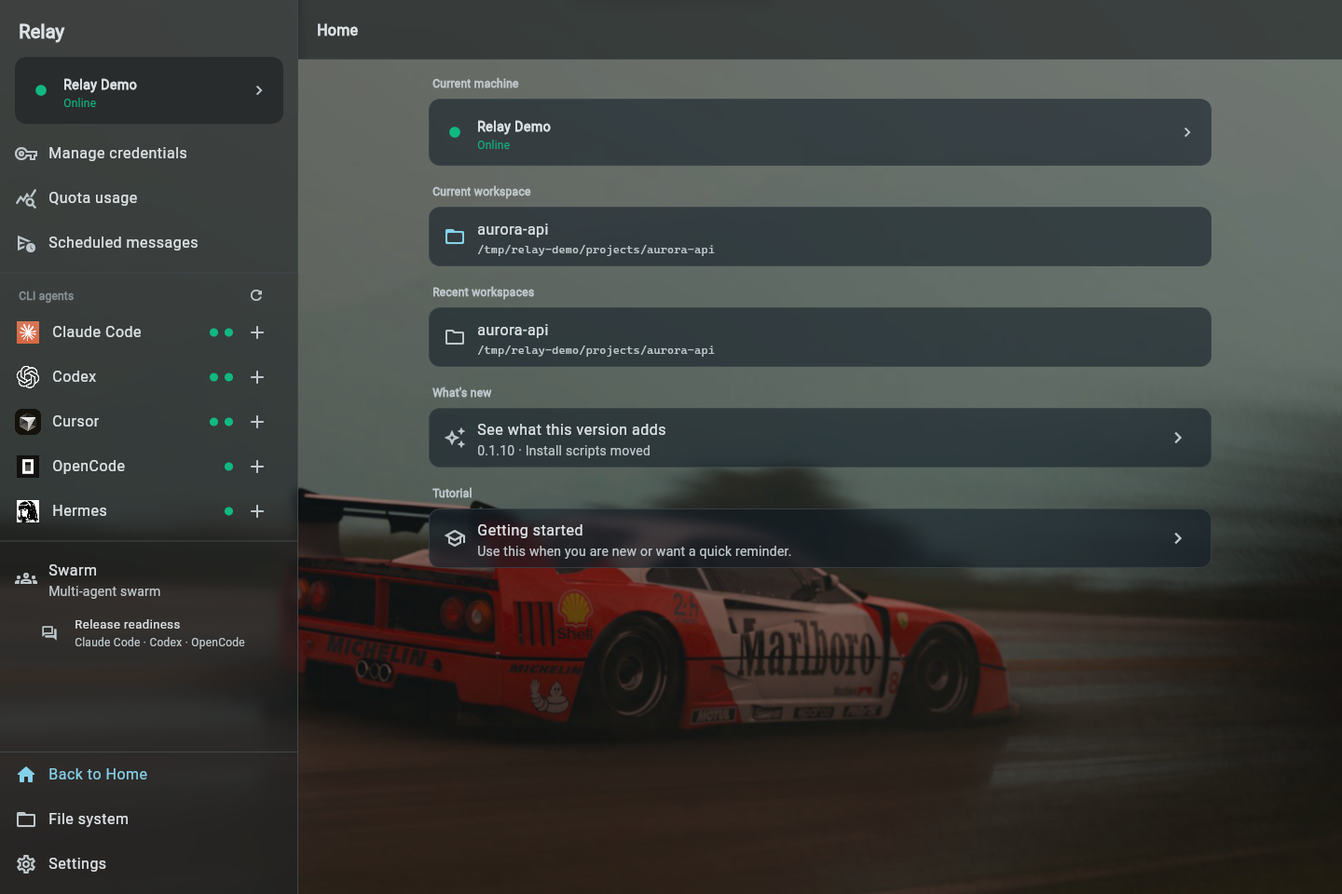
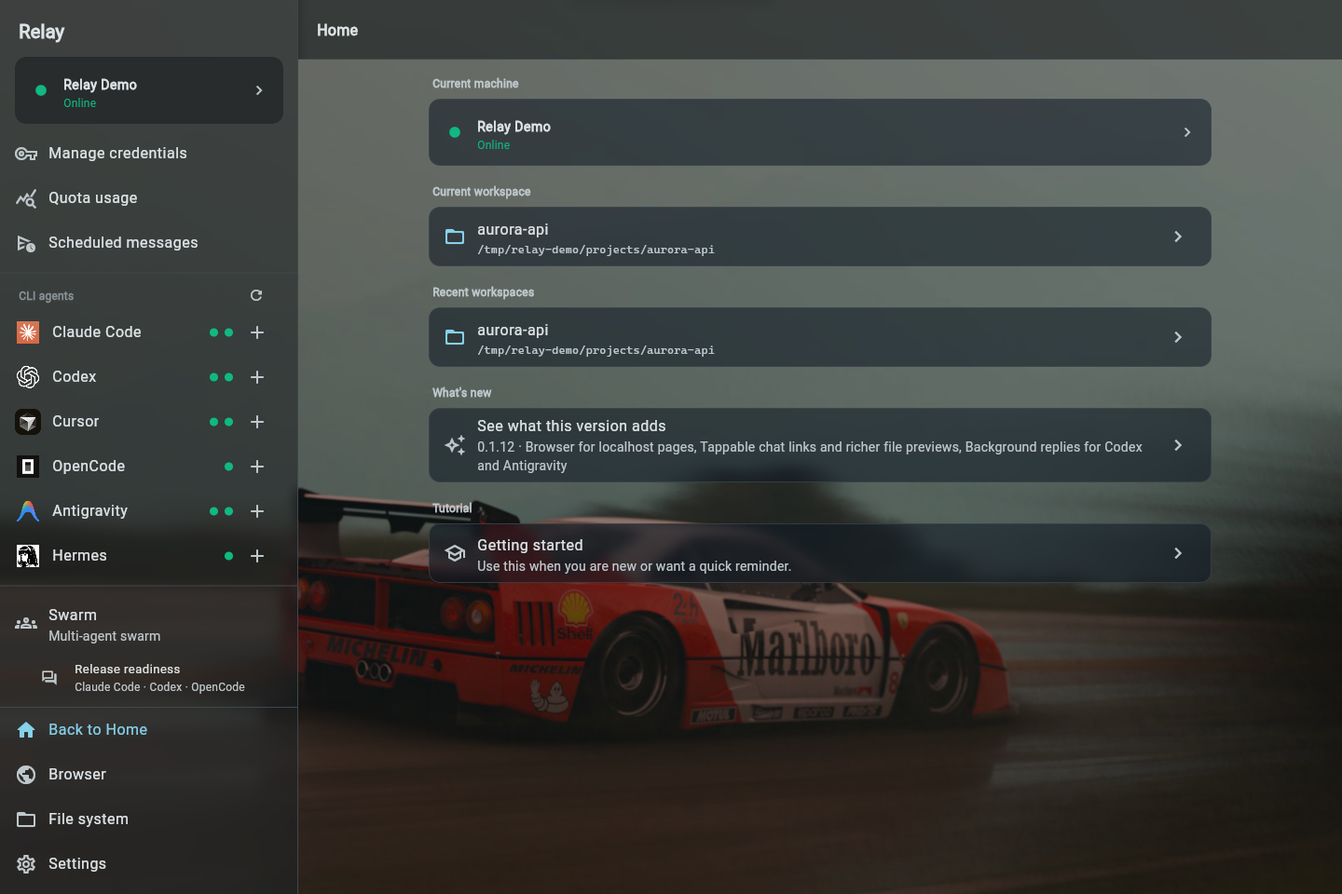
docs: 0.1.12 screenshots, release milestone, 0.1.13 drive switcher plan (#57)
* fix: old-backend errors, iOS downloads, leaving busy chats, resume catch-up

- Show "backend is too old" instead of Express's HTML 404 page when the
  backend lacks a route such as POST /api/fs/mkdir (#45).
- iOS: save downloads to Documents (the sandbox Downloads folder cannot be
  created) and expose them in the Files app (#46).
- Drawer → Home no longer blocks while an agent is working; the turn keeps
  running on the backend, as when switching agents or workspaces.
- On app resume, reconnect events and pull history once so turns finished on
  other clients while the app was suspended appear without a manual refresh.

* feat: add localhost browser and background replies for 0.1.12

Add streamed browser sessions, Codex and Antigravity automatic replies, chat links, and Markdown/image previews. Harden shutdown, token revocation, and background-turn handling with regression coverage.

* Build(deps): bump the npm-dependencies group across 1 directory with 9 updates

Bumps the npm-dependencies group with 9 updates in the /server directory:

| Package | From | To |
| --- | --- | --- |
| [@anthropic-ai/claude-agent-sdk](https://github.com/anthropics/claude-agent-sdk-typescript) | `0.3.314` | `0.3.323` |
| [dotenv](https://github.com/motdotla/dotenv) | `16.6.1` | `18.0.10` |
| [express](https://github.com/expressjs/express) | `4.22.3` | `5.3.0` |
| [express-rate-limit](https://github.com/express-rate-limit/express-rate-limit) | `8.7.2` | `8.7.4` |
[…]

diff --git a/scripts/dev/readme_screenshots.js b/scripts/dev/readme_screenshots.js
@@ -9,6 +9,8 @@
 const fs = require('node:fs');
 const os = require('node:os');
 const path = require('node:path');
+const http = require('node:http');
+const assert = require('node:assert/strict');
 const { execFileSync, spawn } = require('node:child_process');
 
 const REPO = path.resolve(__dirname, '../..');
@@ -21,6 +23,7 @@ const SERVER = path.join(ROOT, 'server');
 const WORKDIR = path.join(ROOT, 'projects', 'aurora-api');
 const PORT = Number(process.env.DEMO_PORT || 8790);
 const BASE_URL = `http://127.0.0.1:${PORT}`;
+const PREVIEW_PORT = PORT + 1;
 const TOKEN = 'relay-demo-screenshot-token-0000000000000000';
 const DARK_OPACITY = Number(process.env.WALLPAPER_DARK_OPACITY || 0.6);
 const PLAYWRIGHT_VERSION = '1.63.0';
@@ -29,10 +32,11 @@ const SEP = '\u0000';
 const day = new Date().toISOString().slice(0, 10);
 const at = (hm) => `${day}T${hm}:00.000Z`;
 
-// Viewport, device pixel ratio and the taps that reach each screen. Taps are
-// CSS-pixel coordinates in the layout of this release; check them when the
-// drawer or home page changes.
+// Viewport, device pixel ratio and the actions that reach each screen.
 const DRAWER = [28, 27];
+const OPEN_FILES = [{ tap: DRAWER }, { button: ['File system', '文件系统'] }];
+const OPEN_BROWSER = [{ tap: DRAWER }, { button: ['Browser', '浏览器'] }];
+const OPEN_IMAGE = [...OPEN_FILES, { button: ['ferrari.png', 'ferrari.png'] }];
 const SHOTS = [
   { name: 'relay-overview-web', size: [1440, 960, 1], steps: [] },
   { name: 'relay-chat-web', size: [1440, 960, 1], steps: [{ tap: [104, 356] }] },
@@ -40,9 +44,11 @@ const SHOTS = [
   {
     name: 'relay-swarm-mobile',
     size: [400, 820, 2],
-    steps: [{ tap: DRAWER }, { scroll: [150, 500, 300] }, { tap: [136, 640] }],
+    steps: [{ tap: DRAWER }, { scroll: [150, 500, 300] }, { button: ['Release readiness', '发布检查'] }],
   },
-  { name: 'relay-files-mobile', size: [400, 820, 2], steps: [{ tap: DRAWER }, { tap: [95, 739] }] },
+  { name: 'relay-files-mobile', size: [400, 820, 2], steps: OPEN_FILES },
+  { name: 'relay-browser-mobile', size: [400, 820, 2], steps: OPEN_BROWSER, browser: true },
+  { name: 'relay-image-preview-mobile', size: [400, 820, 2], steps: OPEN_IMAGE, image: true },
 ];
 
 // Same layout as the first phone set, rendered at 2.5× for 1080×1920 PNGs.
@@ -52,12 +58,14 @@ const MOBILE_SHOTS = [
   { name: 'relay-chat-empty-mobile', empty: true, steps: [{ tap: DRAWER }, { tap: [104, 356] }] },
   {
     name: 'relay-swarm-mobile',
-    steps: [{ tap: DRAWER }, { scroll: [150, 500, 300] }, { tap: [136, 550] }],
+    steps: [{ tap: DRAWER }, { scroll: [150, 500, 300] }, { button: ['Release readiness', '发布检查'] }],
   },
-  { name: 'relay-files-mobile', steps: [{ tap: DRAWER }, { tap: [95, 688] }] },
+  { name: 'relay-files-mobile', steps: OPEN_FILES },
+  { name: 'relay-browser-mobile', steps: OPEN_BROWSER, browser: true },
+  { name: 'relay-image-preview-mobile', steps: OPEN_IMAGE, image: true },
   { name: 'relay-machine-mobile', steps: [{ tap: [180, 132] }] },
-  { name: 'relay-quota-mobile', steps: [{ tap: DRAWER }, { tap: [100, 213] }] },
-  { name: 'relay-settings-mobile', steps: [{ tap: DRAWER }, { tap: [95, 739] }] },
+  { name: 'relay-quota-mobile', steps: [{ tap: DRAWER }, { tap: [100, 213] }], quota: true },
+  { name: 'relay-settings-mobile', steps: [{ tap: DRAWER }, { button: ['Settings', '设置'] }] },
   { name: 'relay-credentials-mobile', steps: [{ tap: DRAWER }, { tap: [100, 165] }] },
 ].map((shot) => ({ ...shot, size: [432, 768, 2.5] }));
 
@@ -79,7 +87,7 @@ function writeJson(name, value) {
   fs.writeFileSync(path.join(SERVER, name), JSON.stringify(value, null, 2));
 }
 
-function seed(lang) {
+function seed(lang, image) {
   const text = (en, zh) => lang === 'zh' ? zh : en;
   fs.rmSync(ROOT, { recursive: true, force: true });
 
@@ -100,6 +108,7 @@ function seed(lang) {
     fs.mkdirSync(path.dirname(file), { recursive: true });
     fs.writeFileSync(file, body);
   }
+  fs.copyFileSync(image, path.join(WORKDIR, 'ferrari.png'));
 
   // Tracked server code only, so no local deployment state is copied.
   const tracked = execFileSync('git', ['ls-files', 'server'], { cwd: REPO }).toString().trim().split('\n');
@@ -231,7 +240,54 @@ function seed(lang) {
   });
 }
 
-async function startServer() {
+function startPreview(lang) {
+  const text = (en, zh) => lang === 'zh' ? zh : en;
+  const html = `<!doctype html>
+<html lang="${lang}"><meta charset="utf-8"><meta name="viewport" content="width=device-width, initial-scale=1">
+<title>Aurora · ${text('Billing', '账单')}</title>
+<style>
+*{box-sizing:border-box}body{margin:0;background:#f5f6f8;color:#172b3a;font:15px system-ui,sans-serif}
+header{padding:22px 24px;background:#172b3a;color:white;display:flex;align-items:center;justify-content:space-between}
+header strong{font-size:22px;letter-spacing:-.7px}header span{color:#b8c9d6;font-size:12px}
+main{max-width:960px;margin:auto;padding:26px 22px}small{color:#607482;font-size:11px;letter-spacing:1.4px}
+h1{font-size:29px;letter-spacing:-1px;margin:8px 0}p{color:#607482;line-height:1.6;margin:0 0 22px}
+.stats{display:grid;grid-template-columns:1fr 1fr;gap:12px}.card,section{background:white;border:1px solid #e0e6eb;border-radius:12px;padding:18px}
+.card span{font-size:12px;color:#607482}.card strong{display:block;font-size:27px;margin:9px 0 4px}.card em{font-size:11px;font-style:normal;color:#13765e}
+section{margin-top:18px}h2{font-size:16px;margin:0 0 20px}.chart{height:85px;display:flex;align-items:end;gap:12px}
+.chart i{flex:1;background:#467d96;border-radius:4px 4px 0 0}.chart i:last-child{background:#172b3a}
+.axis{display:flex;justify-content:space-between;font-size:10px;color:#607482;margin-top:8px}
+.invoice{display:flex;justify-content:space-between;align-items:center;padding:15px 0;border-top:1px solid #edf0f3}
+.invoice b{font-size:13px}.invoice span{display:block;font-size:11px;color:#607482;margin-top:4px}
+.paid{background:#e5f4ec;color:#13765e;padding:5px 9px;border-radius:5px;font-size:11px}
+footer{margin-top:20px;color:#607482;font-size:11px}
+</style>
+<header><strong>aurora<span style="color:#76b4cf"> / </span></strong><span>${text('Development preview', '开发预览')}</span></header>
+<main><small>AURORA API · 2.4.1</small><h1>${text('Billing overview', '账单概览')}</h1>
+<p>${text('A clear view of your invoices and revenue.', '发票与收入，一目了然。')}</p>
+<div class="stats"><div class="card"><span>${text('Revenue this month', '本月收入')}</span><strong>¥48,250</strong><em>↑ 18.6% ${text('vs last month', '较上月')}</em></div>
+<div class="card"><span>${text('Paid invoices', '已付发票')}</span><strong>128</strong><em>${text('All payments settled', '全部款项已结清')}</em></div></div>
+<section><h2>${text('Revenue · Last 7 days', '收入 · 最近 7 天')}</h2><div class="chart">
+${[36, 58, 44, 72, 62, 84, 98].map((height) => `<i style="height:${height}%"></i>`).join('')}</div>
+<div class="axis"><span>${text('MON', '周一')}</span><span>${text('SUN', '周日')}</span></div></section>
+<section><h2>${text('Recent invoices', '最近发票')}</h2>
+${[['1048', 'Northstar Studio', '¥2,400'], ['1047', 'Orbit Labs', '¥1,850'], ['1046', 'Acme Design', '¥3,200']].map(([id, name, amount]) =>
+    `<div class="invoice"><div><b>${name}</b><span>INV-${id} · ${amount}</span></div><label class="paid">${text('Paid', '已付款')}</label></div>`).join('')}
+</section><footer>localhost:${PREVIEW_PORT} · ${text('Served on your backend machine', '运行在你的后端机器上')}</footer></main></html>`;
+  const server = http.createServer((_req, res) => {
+    res.writeHead(200, { 'Content-Type': 'text/html; charset=utf-8' });
+    res.end(html);
+  });
+  return new Promise((resolve, reject) => {
+    server.once('error', reject);
+    server.listen(PREVIEW_PORT, '127.0.0.1', () => resolve(server));
+  });
+}
+
+async function startServer(browserPath) {
+  // Match Playwright's sandbox setting only for this isolated localhost demo.
+  const launcher = path.join(ROOT, 'chromium-demo');
+  const quotedBrowser = `'${browserPath.replace(/'/g, "'\\''")}'`;
+  fs.writeFileSync(launcher, `#!/bin/sh\nexec ${quotedBrowser} --no-sandbox "$@"\n`, { mode: 0o700 });
   // The shell may carry the real deployment's settings; the demo must not use them.
   const env = Object.fromEntries(Object.entries(process.env).filter(([key]) =>
     !/^(PORT|HOST|PUBLIC_BASE_URL|RELAY_.*|ENABLE_.*)$/.test(key)));
@@ -244,6 +300,7 @@ async function startServer() {
       HOST: '127.0.0.1',
       RELAY_DEFAULT_DIR: WORKDIR,
       RELAY_FS_ROOTS: path.join(ROOT, 'projects'),
+      RELAY_BROWSER: launcher,
       ENABLE_QUOTA_WATCH: 'false',
       ENABLE_CLAUDE_KEEPALIVE: 'false',
     },
@@ -268,6 +325,25 @@ async function shoot(browser, wallpaper, lang, shot) {
     deviceScaleFactor: dpr,
     timezoneId: 'UTC',
     locale: lang === 'zh' ? 'zh-CN' : 'en-US',
+  });
+  let previewDownloaded = false;
+  let browserFrames = 0;
+  let browserUrl = '';
+  page.on('response', (response) => {
+    if (response.url().includes('/api/fs/download?') && response.url().includes('ferrari.png') && response.ok()) {
+      previewDownloaded = true;
+    }
+  });
+  page.on('websocket', (socket) => {
+    if (!socket.url().includes('/api/browser/connect?')) return;
+    socket.on('framereceived', ({ payload }) => {
+      if (Buffer.isBuffer(payload)) {
+        browserFrames += 1;
+      } else {
+        const message = JSON.parse(payload);
+        if (message.type === 'url') browserUrl = message.url;
+      }
+    });
   });
   if (shot.empty) {
     // Empty only this browser's history; the demo's translated chat stays intact.
@@ -329,14 +405,38 @@ async function shoot(browser, wallpaper, lang, shot) {
   }, { lang, wallpaper, darkOpacity: DARK_OPACITY, baseUrl: BASE_URL, token: TOKEN });
   await page.reload();
   await page.waitForTimeout(6000);
+  // Flutter paints to canvas; enable its semantics tree to target drawer labels.
+  await page.locator('flt-semantics-placeholder').evaluate((element) => element.click());
+  await page.waitForTimeout(500);
   for (const step of shot.steps) {
     if (step.tap) {
       await page.mouse.click(...step.tap);
+    } else if (step.button) {
+      const label = step.button[lang === 'zh' ? 1 : 0];
+      const escaped = label.replace(/[.*+?^${}()|[\]\\]/g, '\\$&');
+      await page.getByRole('button', { name: new RegExp(escaped) }).click();
     } else {
       await page.mouse.move(step.scroll[0], step.scroll[1]);
       await page.mouse.wheel(0, step.scroll[2]);
     }
-    await page.waitForTimeout(step.tap ? 3000 : 1000);
+    await page.waitForTimeout(step.scroll ? 1000 : 3000);
+  }
+  if (shot.browser) {
+    await page.getByRole('textbox').fill(`http://127.0.0.1:${PREVIEW_PORT}`);
+    const framesBeforeNavigation = browserFrames;
+    await page.getByRole('textbox').press('Enter');
+    await page.waitForTimeout(4000);
+    assert(browserUrl.startsWith(`http://127.0.0.1:${PREVIEW_PORT}`), 'Browser must navigate to the localhost demo');
+    assert(browserFrames > framesBeforeNavigation, 'Browser screenshot must contain a streamed frame');
+  }
+  if (shot.image) {
+    assert(previewDownloaded, 'Image preview must download the demo Ferrari image');
+    await page.getByRole('img').waitFor({ state: 'visible' });
+    assert(!(await page.locator('body').innerText()).match(/Cannot preview|无法预览/), 'Image preview must render successfully');
+  }
+  if (shot.quota) {
+    await page.locator('[role="progressbar"]:not([aria-valuenow])').waitFor({ state: 'hidden', timeout: 60000 });
+    assert(!(await page.locator('body').innerText()).match(/Loading quota|正在查询额度/), 'Quota queries must finish before capture');
   }
   const file = path.join(OUT, `${shot.name}${lang === 'zh' ? '-zh' : ''}.png`);
   await page.screenshot({ path: file });
@@ -360,14 +460,19 @@ async function main() {
   try {
     const wallpaper = fs.readFileSync(image).toString('base64');
     for (const lang of MOBILE_ZH ? ['zh'] : ['en', 'zh']) {
-      seed(lang);
-      const server = await startServer();
+      seed(lang, image);
+      const preview = await startPreview(lang);
+      let server;
       try {
+        server = await startServer(chromium.executablePath());
         const shots = MOBILE_ZH ? MOBILE_SHOTS : SHOTS;
         for (const shot of shots) await shoot(browser, wallpaper, lang, shot);
       } finally {
-        server.kill();
-        await new Promise((resolve) => server.once('exit', resolve));
+        if (server) {
+          server.kill();
+          await new Promise((resolve) => server.once('exit', resolve));
+        }
+        await new Promise((resolve) => preview.close(resolve));
       }
     }
   } finally {

diff --git a/ENGINEERING.md b/ENGINEERING.md
@@ -42,7 +42,7 @@ script is under `scripts/` except the Node tools in `server/scripts/`.
 | scripts/install/{linux,macos,windows} | what users run to install and manage a backend; the linux and macos scripts forward to unix |
 | scripts/install/unix | the one Linux/macOS implementation: install.sh, the setup menu, service scripts and the per-platform adapters in lib/ |
 | scripts/release | release bundle builders, version/documentation checks, Windows setup checks and a local Android signing fallback for a release draft |
-| scripts/dev | local development helpers (build flow, backend restart, icon export, README screenshots) |
+| scripts/dev | local development helpers (build flow, backend restart, icon export, isolated demo screenshots for the English/Chinese READMEs and Chinese 9:16 phones, including localhost browser and workspace image preview) |
 | docs | handbook, install guides, security model, changelog, README screenshots |
 | .github/workflows | CI on pull requests, an on-demand unsigned iOS IPA, and a manually prepared release draft that also builds the signed Android APK from Actions Secrets |
 
@@ -443,7 +443,8 @@ navigation on 2026-11-09.
 - `node scripts/release/check_versions.js`, `node scripts/release/check_docs.js` and `node --test scripts/release/*.test.js` -> exit 0
 - `(cd app/core && flutter analyze --no-pub)` and `(cd app/shell && flutter analyze --no-pub)` -> "No issues found!"
 - `(cd app/core && flutter test --no-pub)` -> "All tests passed!"
-- `node scripts/dev/readme_screenshots.js <wallpaper image> --mobile-zh` (Web build present) -> nine Chinese demo screenshots (home, chat, empty chat, Swarm, files, machine details, quota usage, settings and credentials) in `docs/screenshots/mobile-zh-9x16/`, each 1080×1920 (9:16), with translated demo conversations and the README wallpaper settings.
+- `node scripts/dev/readme_screenshots.js docs/farrari.png` (Web build present) -> fourteen English/Chinese README screenshots (home and chat at 1440×960; mobile chat, Swarm, files, localhost browser and image preview at 800×1640) in `docs/screenshots/`, using an isolated demo backend and localhost dashboard with the Ferrari wallpaper.
+- `node scripts/dev/readme_screenshots.js docs/farrari.png --mobile-zh` (Web build present) -> eleven Chinese demo screenshots (home, chat, empty chat, Swarm, files, browser, image preview, machine details, quota usage, settings and credentials) in `docs/screenshots/mobile-zh-9x16/`, each 1080×1920 (9:16), with translated demo conversations and the README wallpaper settings; quota capture waits for all usage queries to finish.
 - Settings → Wallpaper: Replace image and Remove wallpaper controls appear above the preview and adjustment controls.
 - Settings → Wallpaper: choosing or removing an image updates the preview before Save; import/processing displays a spinner.
 - Settings → Wallpaper: one opacity slider controls the current theme, and moving it updates the preview before Save.
@@ -532,7 +533,8 @@ navigation on 2026-11-09.
 | Milestone | Completion criteria | Status |
 |---|---|---|
 | 0.1.11 | `node scripts/release/check_versions.js` prints "Release versions match: 0.1.11"; the What's new entries (English and Chinese) hold 1-3 highlights plus short other-change lines; Antigravity appears in agent controls and quota views with host credentials protected | done (released 2026-11-10) |
-| 0.1.12 | `node scripts/release/check_versions.js` prints "Release versions match: 0.1.12"; the dependency updates deferred from 0.1.11 land on the 0.1.12 branch with CI green: Firebase and flutter_secure_storage majors (was #39; flutter_secure_storage stops at 10 so Android data migrates before 11 removes the old ciphers), Express 5 and dotenv majors (was #40; Express 5 rejects the `app.get('*')` Web fallback route), and the moderate advisories `npm audit fix` resolves (the remaining `glob`/`minimatch` one comes through firebase-admin → google-gax → rimraf 5 and waits for upstream) | in progress |
+| 0.1.12 | `node scripts/release/check_versions.js` prints "Release versions match: 0.1.12"; the dependency updates deferred from 0.1.11 land on the 0.1.12 branch with CI green: Firebase and flutter_secure_storage majors (was #39; flutter_secure_storage stops at 10 so Android data migrates before 11 removes the old ciphers), Express 5 and dotenv majors (was #40; Express 5 rejects the `app.get('*')` Web fallback route), and the moderate advisories `npm audit fix` resolves (the remaining `glob`/`minimatch` one comes through firebase-admin → google-gax → rimraf 5 and waits for upstream) | done (released 2026-11-16) |
+| 0.1.13 | Windows file browser drive switcher. Today the browser starts on the C: drive (`%USERPROFILE%\Relay`), `C:\` has no parent and the app has no drive list or path entry, so another drive is reachable only through `RELAY_DEFAULT_DIR`, a chat link or a recent workspace, although the backend already lists any absolute path. Done when: on a Windows backend the directory listing reports the existing drive roots (open file access only; an isolated install reports none), the first breadcrumb or Up from a drive root offers them, choosing `D:\` lists it and can make it the work directory, a backend without the field still browses as before, and server plus Flutter tests cover the listing, the switcher and the isolated case | planned |
 
 ## Changes
 

diff --git a/docs/handbook.md b/docs/handbook.md
@@ -893,16 +893,17 @@ exported for the macOS desktop icon.
 
 ### Refreshing README screenshots
 
-`docs/screenshots/` holds the five README screenshots in English and, with a
+`docs/screenshots/` holds the seven README screenshots in English and, with a
 `-zh` suffix, in Chinese: `relay-overview-web` and `relay-chat-web` at
-1440×960, and `relay-chat-mobile`, `relay-swarm-mobile` and
-`relay-files-mobile` at 800×1640 (a 400×820 viewport at 2×). Both READMEs
+1440×960, and `relay-chat-mobile`, `relay-swarm-mobile`,
+`relay-files-mobile`, `relay-browser-mobile` and `relay-image-preview-mobile`
+at 800×1640 (a 400×820 viewport at 2×). Both READMEs
 reference them by name, so a recapture only replaces the files. To recapture
-all ten:
+all fourteen with the existing Ferrari wallpaper:
 
 ```bash
 (cd app/shell && flutter build web --no-pub --pwa-strategy=none --no-web-resources-cdn)
-node scripts/dev/readme_screenshots.js /path/to/wallpaper.png
+node scripts/dev/readme_screenshots.js docs/farrari.png
 ```
 
 The script:
@@ -912,33 +913,43 @@ The script:
    local deployment state), and seeded state. The seeded state is a Relay Demo
    token, the Main, Release notes and Flaky tests Claude Code sessions with the
    invoice-race conversation, and the Release readiness Swarm (Lead, Reviewer
-   and Docs).
+   and Docs). The wallpaper image is also copied into the workspace as
+   `ferrari.png` for the image preview capture.
 2. Starts that backend on `127.0.0.1:8790` (`DEMO_PORT` changes it) with the
    quota watch and keepalive off and none of the shell's `PORT`, `HOST`,
    `RELAY_*` or `ENABLE_*` settings, so the running deployment is not touched.
-   It serves the Web build from `app/shell/build/web`.
+   It serves the Web build from `app/shell/build/web`. A second local server
+   on `127.0.0.1:8791` (`DEMO_PORT + 1`) serves the translated Aurora billing
+   dashboard that Relay's Browser opens for its capture.
 3. Opens headless Chromium with Playwright and, in local storage, sets the
    dark theme, the language and the Relay Demo credential. It also stores the
    wallpaper, prepared the way the Web client prepares an import, at dark
    opacity 0.6 (`WALLPAPER_DARK_OPACITY` changes it).
-4. Taps through each screen at fixed coordinates, writes the screenshots and
-   stops the backend.
+4. Navigates using coordinates and accessible button labels, including the
+   localhost dashboard and the workspace image preview, writes the screenshots
+   and stops both demo servers. Browser captures verify navigation and streamed
+   frames; image captures wait for the image preview to render, and quota
+   captures wait for all usage queries to finish.
 
 Playwright is not a repository dependency. The script installs a pinned
 `playwright-core` and its Chromium into the temporary directory and the
 Playwright browser cache on first use; set `PLAYWRIGHT_CORE` to use an existing
-`playwright-core` module instead.
+`playwright-core` module instead. The isolated backend receives that same
+Chromium executable through a demo-only `RELAY_BROWSER` launcher, using
+Playwright's `--no-sandbox` setting for the localhost demo; a separate host
+Chrome install is not required. This does not change the deployed backend.
 
 Chat times are today's date at fixed hours, shown in UTC. The quota bars show
 the backend machine's real Claude Code usage, and the agent dots show
 which CLIs are installed there. Chinese shots use translated conversation
 text, session names and Swarm nicknames as well as the Chinese app language.
-When the drawer or Home layout changes, adjust the tap coordinates for the
-selected capture mode in the script, then review every image before committing
-it.
+When the drawer or Home layout changes, check the tap coordinates and accessible
+button labels for the selected capture mode in the script, then review every
+image before committing it.
 
-For a separate set of Chinese 9:16 phone images (home, chat, empty chat, Swarm,
-files, machine details, quota usage, settings and credentials),
+For a separate set of eleven Chinese 9:16 phone images (home, chat, empty chat,
+Swarm, files, browser, image preview, machine details, quota usage, settings
+and credentials),
 use the same script with `--mobile-zh`:
 
 ```bash

diff --git a/README.md b/README.md
@@ -69,6 +69,19 @@ default 55%) for both themes.
   </tr>
 </table>
 
+### Preview localhost pages and workspace images
+
+<table>
+  <tr>
+    <td width="50%" align="center"><a href="docs/screenshots/relay-browser-mobile.png"><img src="docs/screenshots/relay-browser-mobile.png" alt="Relay browser showing a billing dashboard served on the backend's localhost" width="100%"></a></td>
+    <td width="50%" align="center"><a href="docs/screenshots/relay-image-preview-mobile.png"><img src="docs/screenshots/relay-image-preview-mobile.png" alt="Relay file preview displaying a Ferrari image from the workspace" width="100%"></a></td>
+  </tr>
+  <tr>
+    <td align="center"><strong>Localhost browser</strong><br>View and operate the development page running on your backend machine.</td>
+    <td align="center"><strong>Image preview</strong><br>Open a workspace image and zoom in to inspect it.</td>
+  </tr>
+</table>
+
 <sub>These screenshots use the dark theme with a wallpaper set in Settings → Wallpaper. They were captured in Chromium against an isolated demo backend and contain no production credentials or project data.</sub>
 
 ## How it fits together

diff --git a/README.zh-CN.md b/README.zh-CN.md
@@ -64,6 +64,19 @@ Relay 把源代码、shell 权限和 CLI 登录凭据留在你控制的电脑上
   </tr>
 </table>
 
+### 预览 localhost 页面和工作区图片
+
+<table>
+  <tr>
+    <td width="50%" align="center"><a href="docs/screenshots/relay-browser-mobile-zh.png"><img src="docs/screenshots/relay-browser-mobile-zh.png" alt="Relay 浏览器显示后端 localhost 上运行的账单面板" width="100%"></a></td>
+    <td width="50%" align="center"><a href="docs/screenshots/relay-image-preview-mobile-zh.png"><img src="docs/screenshots/relay-image-preview-mobile-zh.png" alt="Relay 文件预览显示工作区中的 Ferrari 图片" width="100%"></a></td>
+  </tr>
+  <tr>
+    <td align="center"><strong>localhost 浏览器</strong><br>查看并操作后端机器上运行的开发页面。</td>
+    <td align="center"><strong>图片预览</strong><br>打开工作区图片，缩放查看细节。</td>
+  </tr>
+</table>
+
 <sub>这些截图使用暗色主题，并在“设置 → 壁纸”中设置了壁纸；由 Chromium 连接隔离的演示后端截取，不包含生产凭据或真实项目数据。</sub>
 
 ## 它是怎样连接起来的
